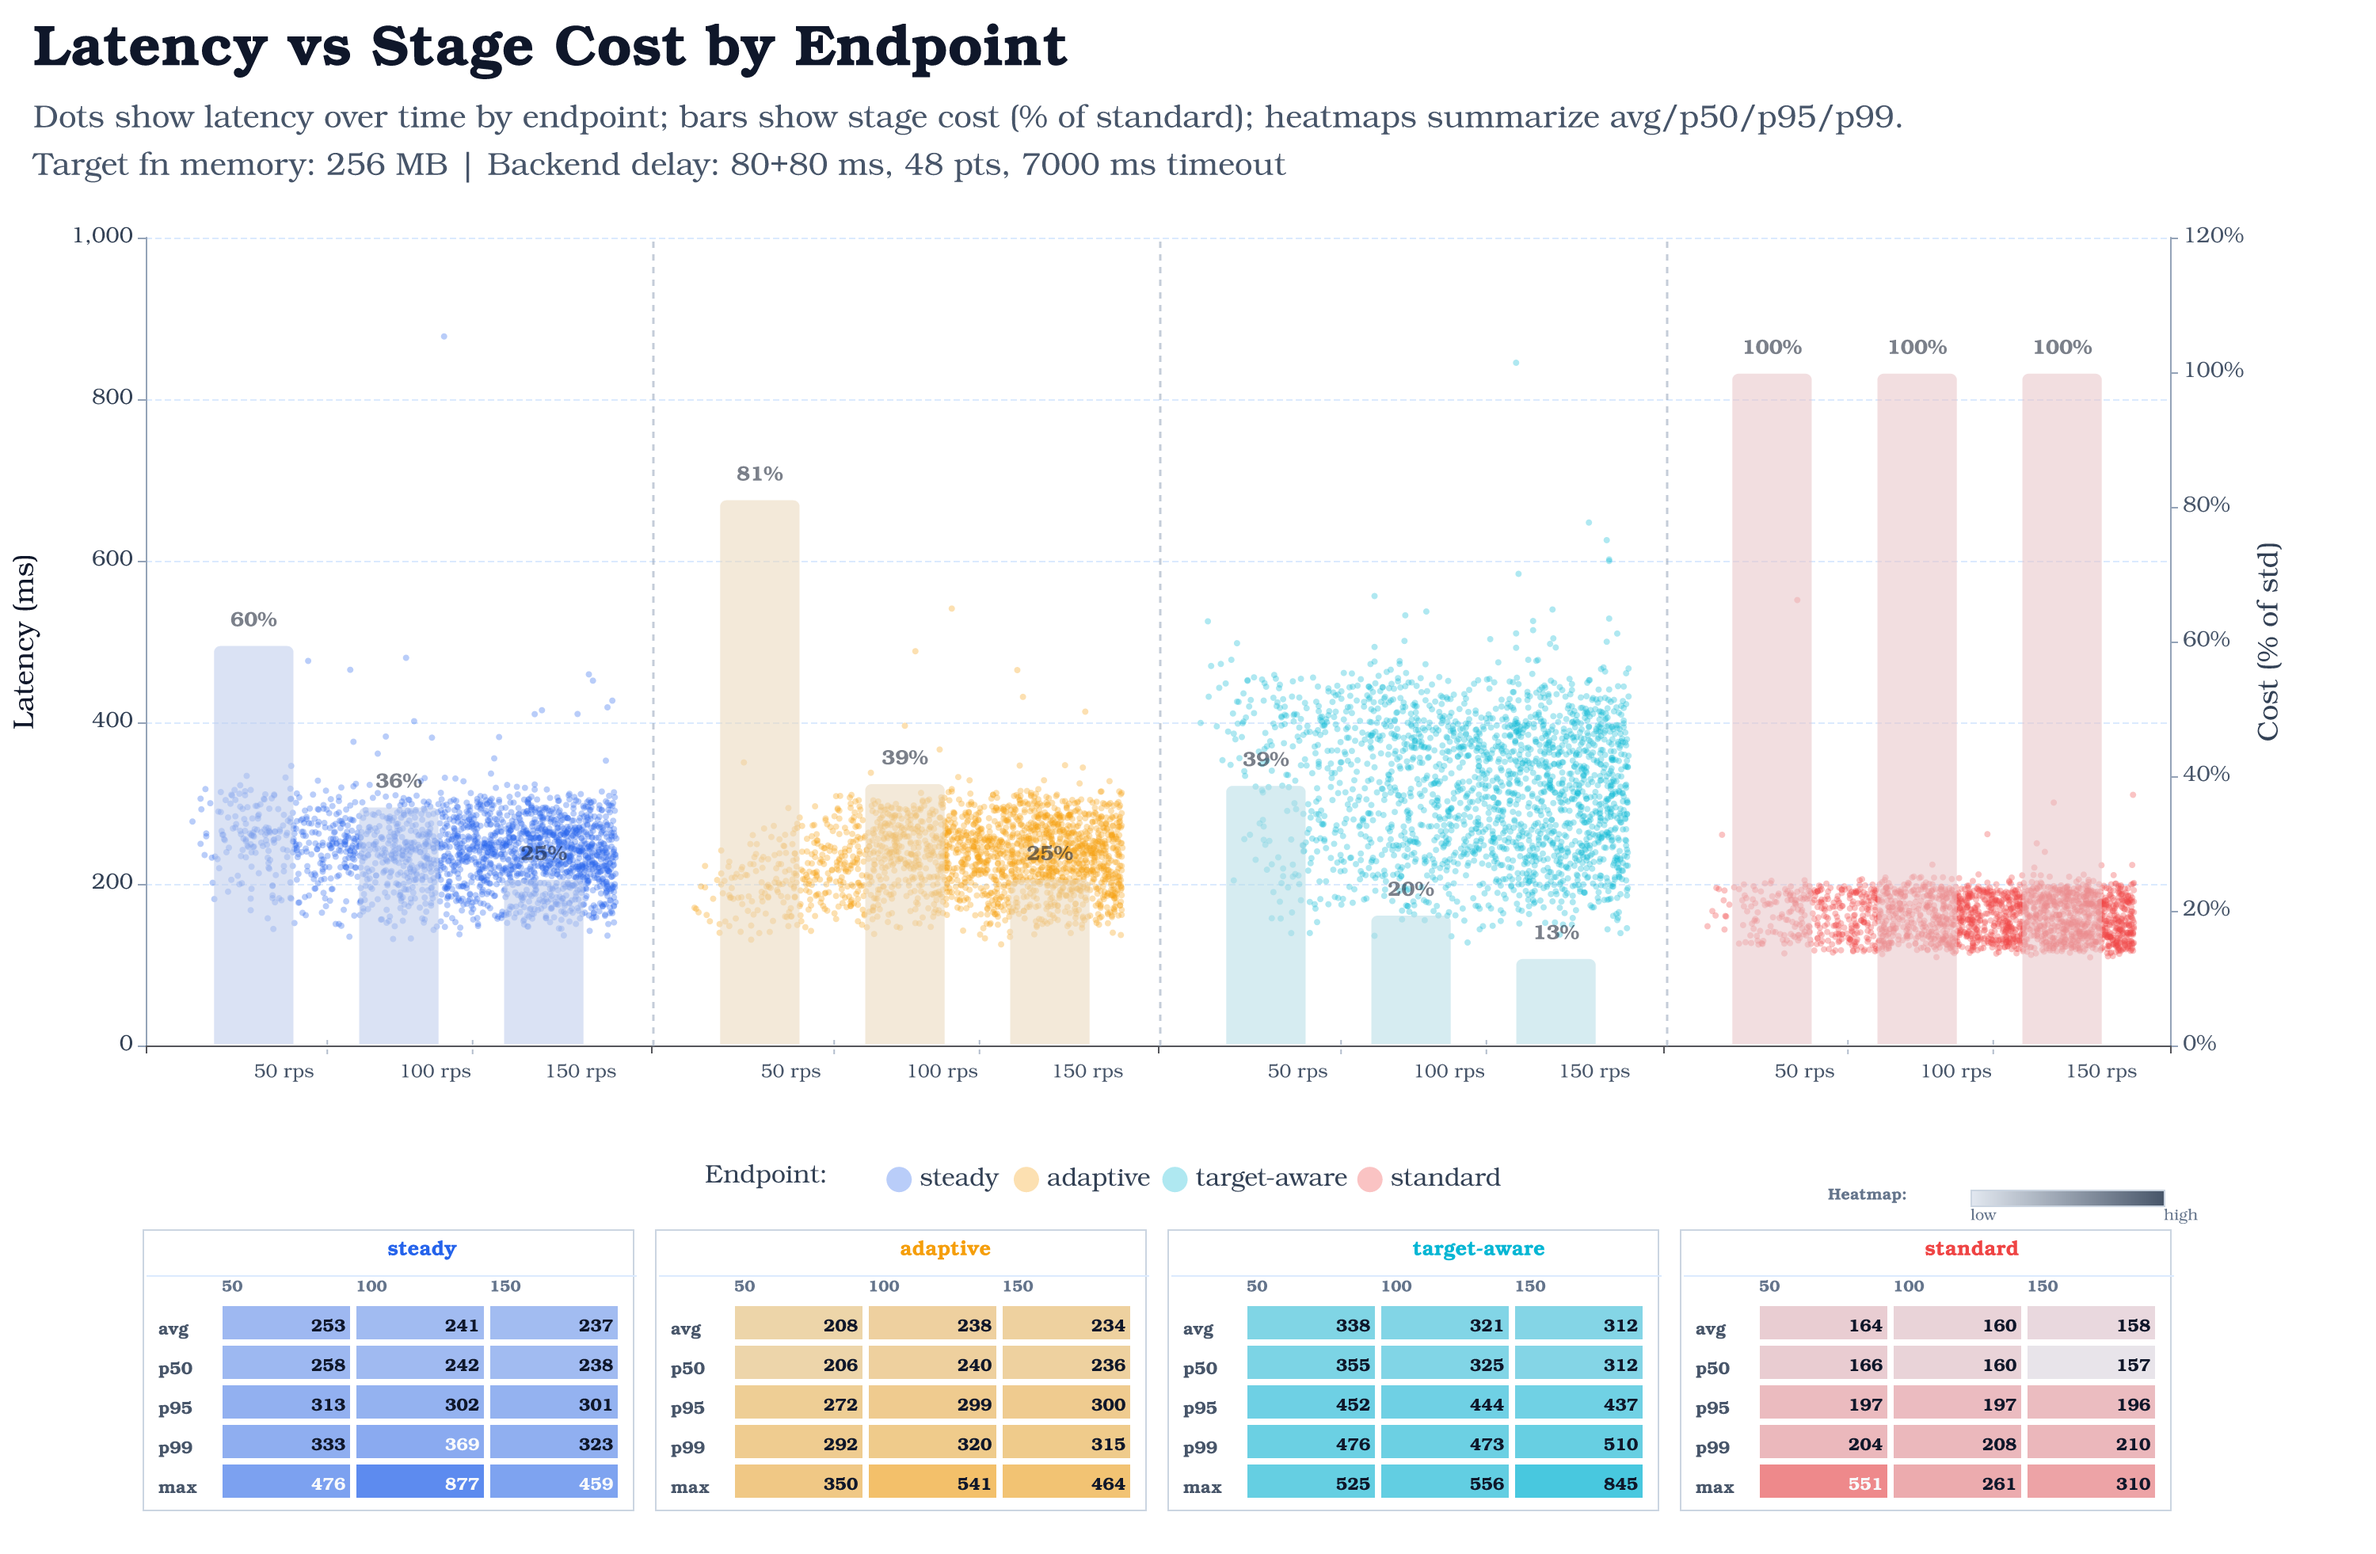
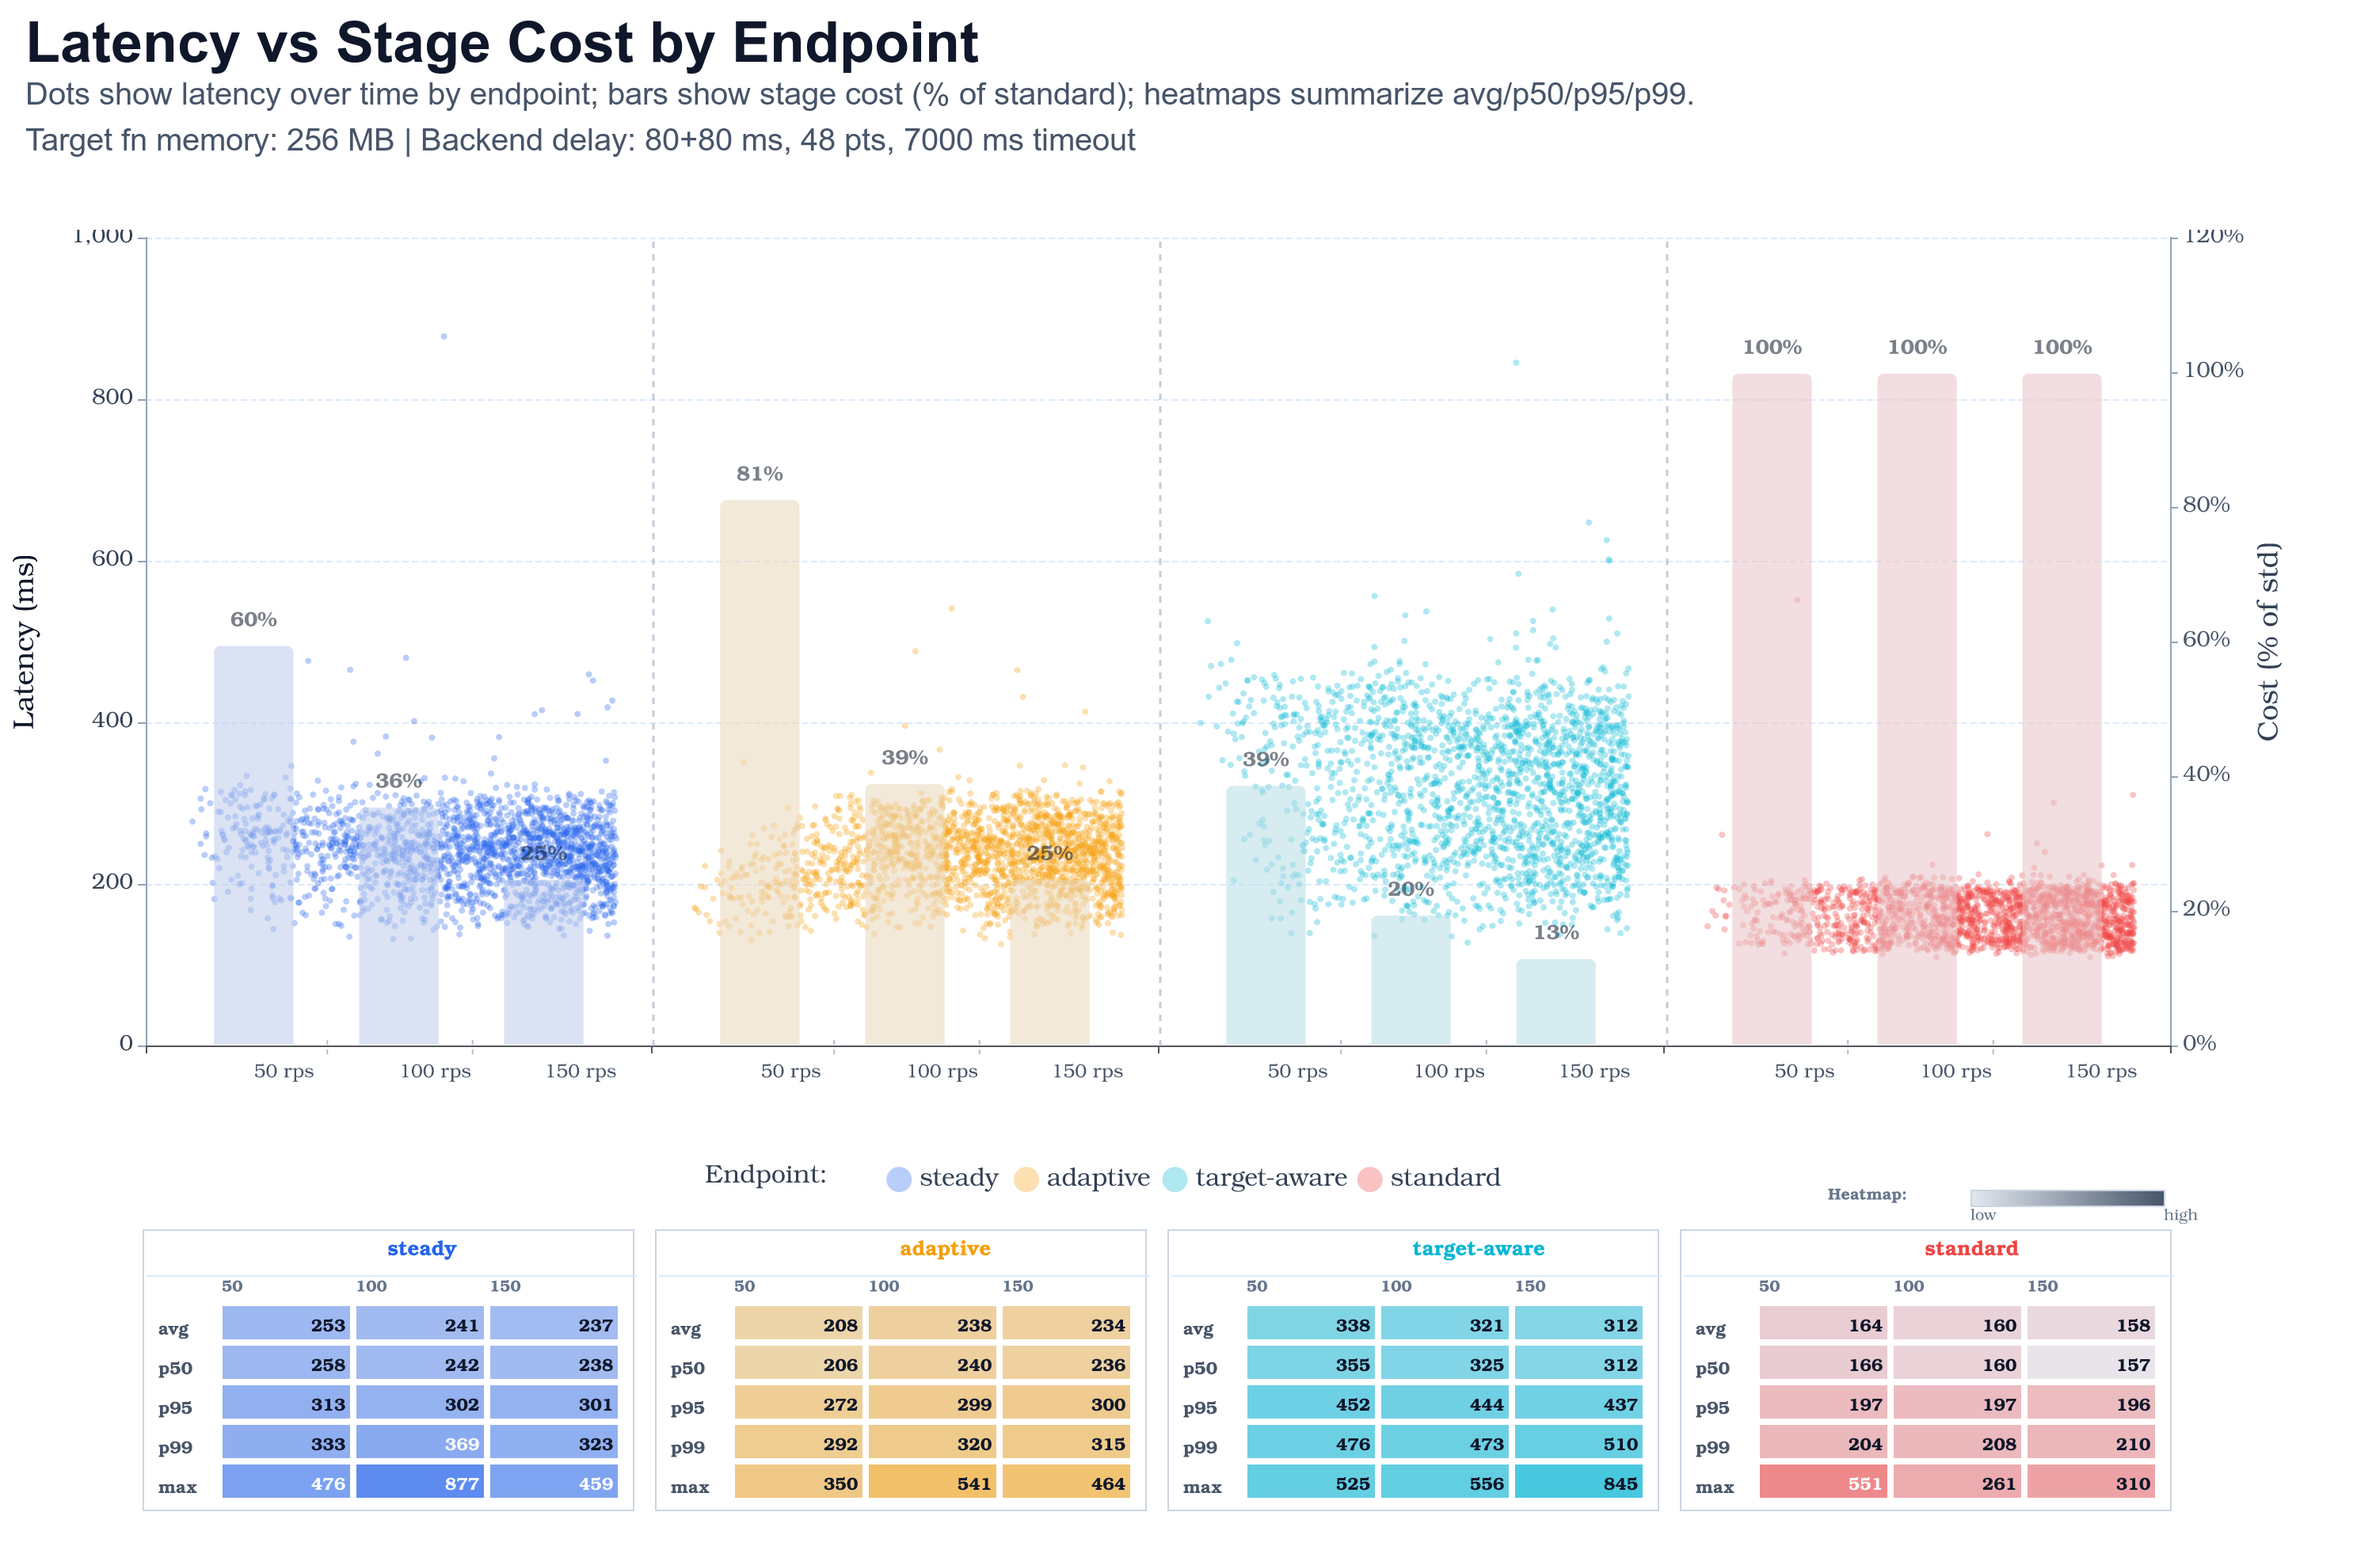
benchmark: simplify chart typography

Changed region(s): [[0.0, 0.0, 0.806, 0.1244]]

diff --git a/benchmark/test/render.test.ts b/benchmark/test/render.test.ts
@@ -205,3 +205,31 @@ test('latency distribution title includes run configuration context', async () =
   assert.match(title.subtext ?? '', /Backend delay: 80\+40 ms, 48 pts, 7000 ms timeout/);
   assert.match(title.subtext ?? '', /Gateway LMI: 2048 MB gateway, 1-4 envs, 64 conc\/env, 2 GiB\/vCPU/);
 });
+
+test('latency distribution title uses the chart sans font stack', async () => {
+  const records = await loadK6Csv(fixtureCsv);
+  const metrics = deriveMetrics({
+    records,
+    endpointOrder: ['standard', 'adaptive'],
+    stages: [{ duration: '3s', target: 2 }],
+    executor: 'ramping-arrival-rate',
+    mode: 'per_endpoint',
+    stackName: 'test-stack',
+    maxDelayMs: 0,
+  });
+
+  const specs = buildEChartsRenderSpecs(metrics, 'light');
+  const latencySpec = specs.find((spec) => spec.filename === RUN_CHART_FILENAMES.latencyDistribution);
+  assert.ok(latencySpec, 'latency distribution chart spec should exist');
+
+  const option = latencySpec.option as Record<string, unknown>;
+  const textStyle = option.textStyle as { fontFamily?: string };
+  const title = option.title as {
+    textStyle?: { fontFamily?: string };
+    subtextStyle?: { fontFamily?: string };
+  };
+
+  assert.equal(textStyle.fontFamily, 'Arial, Helvetica, sans-serif');
+  assert.equal(title.textStyle?.fontFamily, textStyle.fontFamily);
+  assert.equal(title.subtextStyle?.fontFamily, textStyle.fontFamily);
+});

diff --git a/benchmark/src/charts/echarts/specs.ts b/benchmark/src/charts/echarts/specs.ts
@@ -10,9 +10,9 @@ export interface EChartsRenderSpec {
   backgroundColor?: string;
 }
 
-const FONT_FAMILY = 'Avenir Next, Inter, Segoe UI, Helvetica Neue, Arial, sans-serif';
-const FONT_FAMILY_PUBLICATION = 'Source Sans 3, Avenir Next, Inter, Segoe UI, Helvetica Neue, Arial, sans-serif';
-const FONT_FAMILY_DARK = 'Avenir Next, Inter, Segoe UI, Helvetica Neue, Arial, sans-serif';
+const FONT_FAMILY = 'Arial, Helvetica, sans-serif';
+const FONT_FAMILY_PUBLICATION = FONT_FAMILY;
+const FONT_FAMILY_DARK = FONT_FAMILY;
 const DEFAULT_CANVAS_WIDTH = 1500;
 const TITLE_LEFT = 16;
 const TITLE_TOP = 10;
@@ -46,8 +46,18 @@ function standardTitle(text: string, subtext: string): Record<string, unknown> {
     subtext,
     left: TITLE_LEFT,
     top: TITLE_TOP,
-    textStyle: { fontSize: TITLE_FONT_SIZE, fontWeight: TITLE_WEIGHT, color: '#0f172a' },
-    subtextStyle: { fontSize: SUBTITLE_FONT_SIZE, color: '#475569', lineHeight: SUBTITLE_LINE_HEIGHT },
+    textStyle: {
+      fontFamily: FONT_FAMILY,
+      fontSize: TITLE_FONT_SIZE,
+      fontWeight: TITLE_WEIGHT,
+      color: '#0f172a',
+    },
+    subtextStyle: {
+      fontFamily: FONT_FAMILY,
+      fontSize: SUBTITLE_FONT_SIZE,
+      color: '#475569',
+      lineHeight: SUBTITLE_LINE_HEIGHT,
+    },
   };
 }
 
